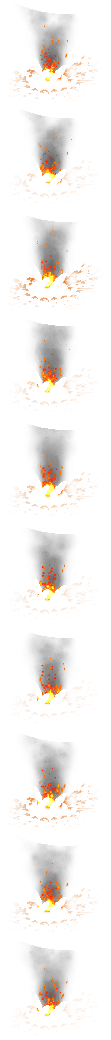
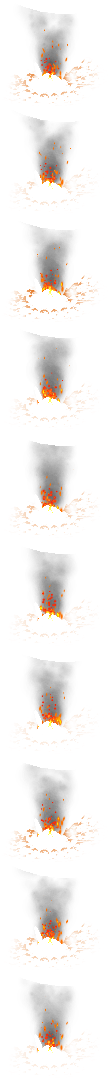
improved: packed water mask into da_login.png as alpha fixed: fire would freeze when controls were disabled due to a foreground popup improved: fire animation improved: water edges added: ChaosGame.GameTime global for time access

diff --git a/Chaos.Client/Controls/LobbyLogin/LobbyLoginControl.cs b/Chaos.Client/Controls/LobbyLogin/LobbyLoginControl.cs
@@ -19,7 +19,6 @@ public sealed class LobbyLoginControl : UIPanel
 	private readonly Effect BackgroundEffect;
 	private readonly EffectParameter BackgroundEffectTime;
 
-	private readonly Texture2D WaterMask;
 	private readonly Texture2D ButtonMaskPress;
 	private readonly Texture2D ButtonMaskHover;
 
@@ -43,17 +42,15 @@ public sealed class LobbyLoginControl : UIPanel
         Height = ChaosGame.VIRTUAL_HEIGHT;
 
         Background = LoadTexture("da_login.png");
-        WaterMask = LoadTexture("da_login_water_mask.png");
-        Campfire = UIAnimatedImage.CreateWithTexture("Campfire", LoadTexture("da_login_campfire.png"), 104);
+        Campfire = UIAnimatedImage.CreateWithTexture("Campfire", LoadTexture("da_login_campfire.png"), 108);
         Campfire.X = 254;
-        Campfire.Y = 357;
+        Campfire.Y = 353;
         Campfire.FrameTime = 1000*5/60;
         Campfire.IsHitTestVisible = false;
         AddChild(Campfire);
 
         BackgroundEffect = LoadEffect("loginBackground.mgfxo");
         BackgroundEffectTime = BackgroundEffect.Parameters["Time"];
-        BackgroundEffect.Parameters["WaterMaskTexture"].SetValue(WaterMask);
 
         var buttonHotspotArea = LoadTexture("da_login_button_mask.png");
         ButtonMaskPress = ImageUtil.BuildButtonMaskPressTint(ChaosGame.Device, buttonHotspotArea);
@@ -93,7 +90,7 @@ public sealed class LobbyLoginControl : UIPanel
 
         using var stream = assembly.GetManifestResourceStream(path) ?? throw new InvalidOperationException($"Embedded resource '{path}' not found");
 
-        return Texture2D.FromStream(ChaosGame.Device, stream);
+        return Texture2D.FromStream(ChaosGame.Device, stream, null);
     }
 
     private static Effect LoadEffect(String path)
@@ -115,16 +112,6 @@ public sealed class LobbyLoginControl : UIPanel
             child.Enabled = enabled;
     }
 
-    public override void Update(GameTime gameTime)
-    {
-        if (!Visible || !Enabled)
-            return;
-
-        BackgroundEffectTime.SetValue((float)gameTime.TotalGameTime.TotalSeconds);
-
-        base.Update(gameTime);
-    }
-
     public override void Draw(SpriteBatch spriteBatch)
     {
         if (!Visible)
@@ -132,6 +119,8 @@ public sealed class LobbyLoginControl : UIPanel
 
         spriteBatch.End();
         spriteBatch.Begin(samplerState: GlobalSettings.Sampler, effect: BackgroundEffect);
+
+        BackgroundEffectTime.SetValue((float)ChaosGame.GameTime.TotalGameTime.TotalSeconds);
 
         base.Draw(spriteBatch);
 

diff --git a/Chaos.Client/Controls/Components/UIAnimatedImage.cs b/Chaos.Client/Controls/Components/UIAnimatedImage.cs
@@ -11,7 +11,6 @@ public class UIAnimatedImage : UIElement
     public double FrameTime = 1000/24.0;
     public int FrameHeight { get; set; }
     public int FrameCount { get => Texture is null ? 1 : Texture.Height / FrameHeight; }
-    public int Frame { get; private set; }
 
     public static UIAnimatedImage CreateWithTexture(string name, Texture2D texture, int frameHeight)
     {
@@ -36,15 +35,12 @@ public class UIAnimatedImage : UIElement
         base.Dispose();
     }
 
-    public override void Update(GameTime gameTime)
-    {
-        Frame = (int)(gameTime.TotalGameTime.TotalMilliseconds / FrameTime);
-    }
-
     public override void Draw(SpriteBatch spriteBatch)
     {
         if (!Visible)
             return;
+
+        var frame = (int)(ChaosGame.GameTime.TotalGameTime.TotalMilliseconds / FrameTime) % FrameCount;
 
         //always run base.Draw so ClipRect updates for hit-testing, even when Texture is null
         //a textureless visible image still has bounds and may be hit-tested
@@ -61,7 +57,7 @@ public class UIAnimatedImage : UIElement
             spriteBatch,
             Texture,
             new Vector2(ScreenX, ScreenY),
-            new Rectangle(0, (Frame % FrameCount) * FrameHeight, Texture.Width, FrameHeight),
+            new Rectangle(0, frame * FrameHeight, Texture.Width, FrameHeight),
             Color.White);
 
         spriteBatch.End();

diff --git a/Chaos.Client/ChaosGame.cs b/Chaos.Client/ChaosGame.cs
@@ -145,6 +145,11 @@ public sealed class ChaosGame : Game
 
     public static GraphicsDevice Device => TextureConverter.Device;
 
+    /// <summary>
+    ///     The game time as reported by the last Update().
+    /// </summary>
+    public static GameTime GameTime { get; private set; } = new GameTime();
+
     public ChaosGame()
     {
         //sdl by default is polling all possible input devices
@@ -1173,6 +1178,8 @@ public sealed class ChaosGame : Game
 
     protected override void Update(GameTime gameTime)
     {
+        ChaosGame.GameTime = gameTime;
+
         DebugOverlay.BeginFrame();
 
         //mouse coordinate transform. native-UI screens want the raw native pixel position (scale 1). Legacy screens